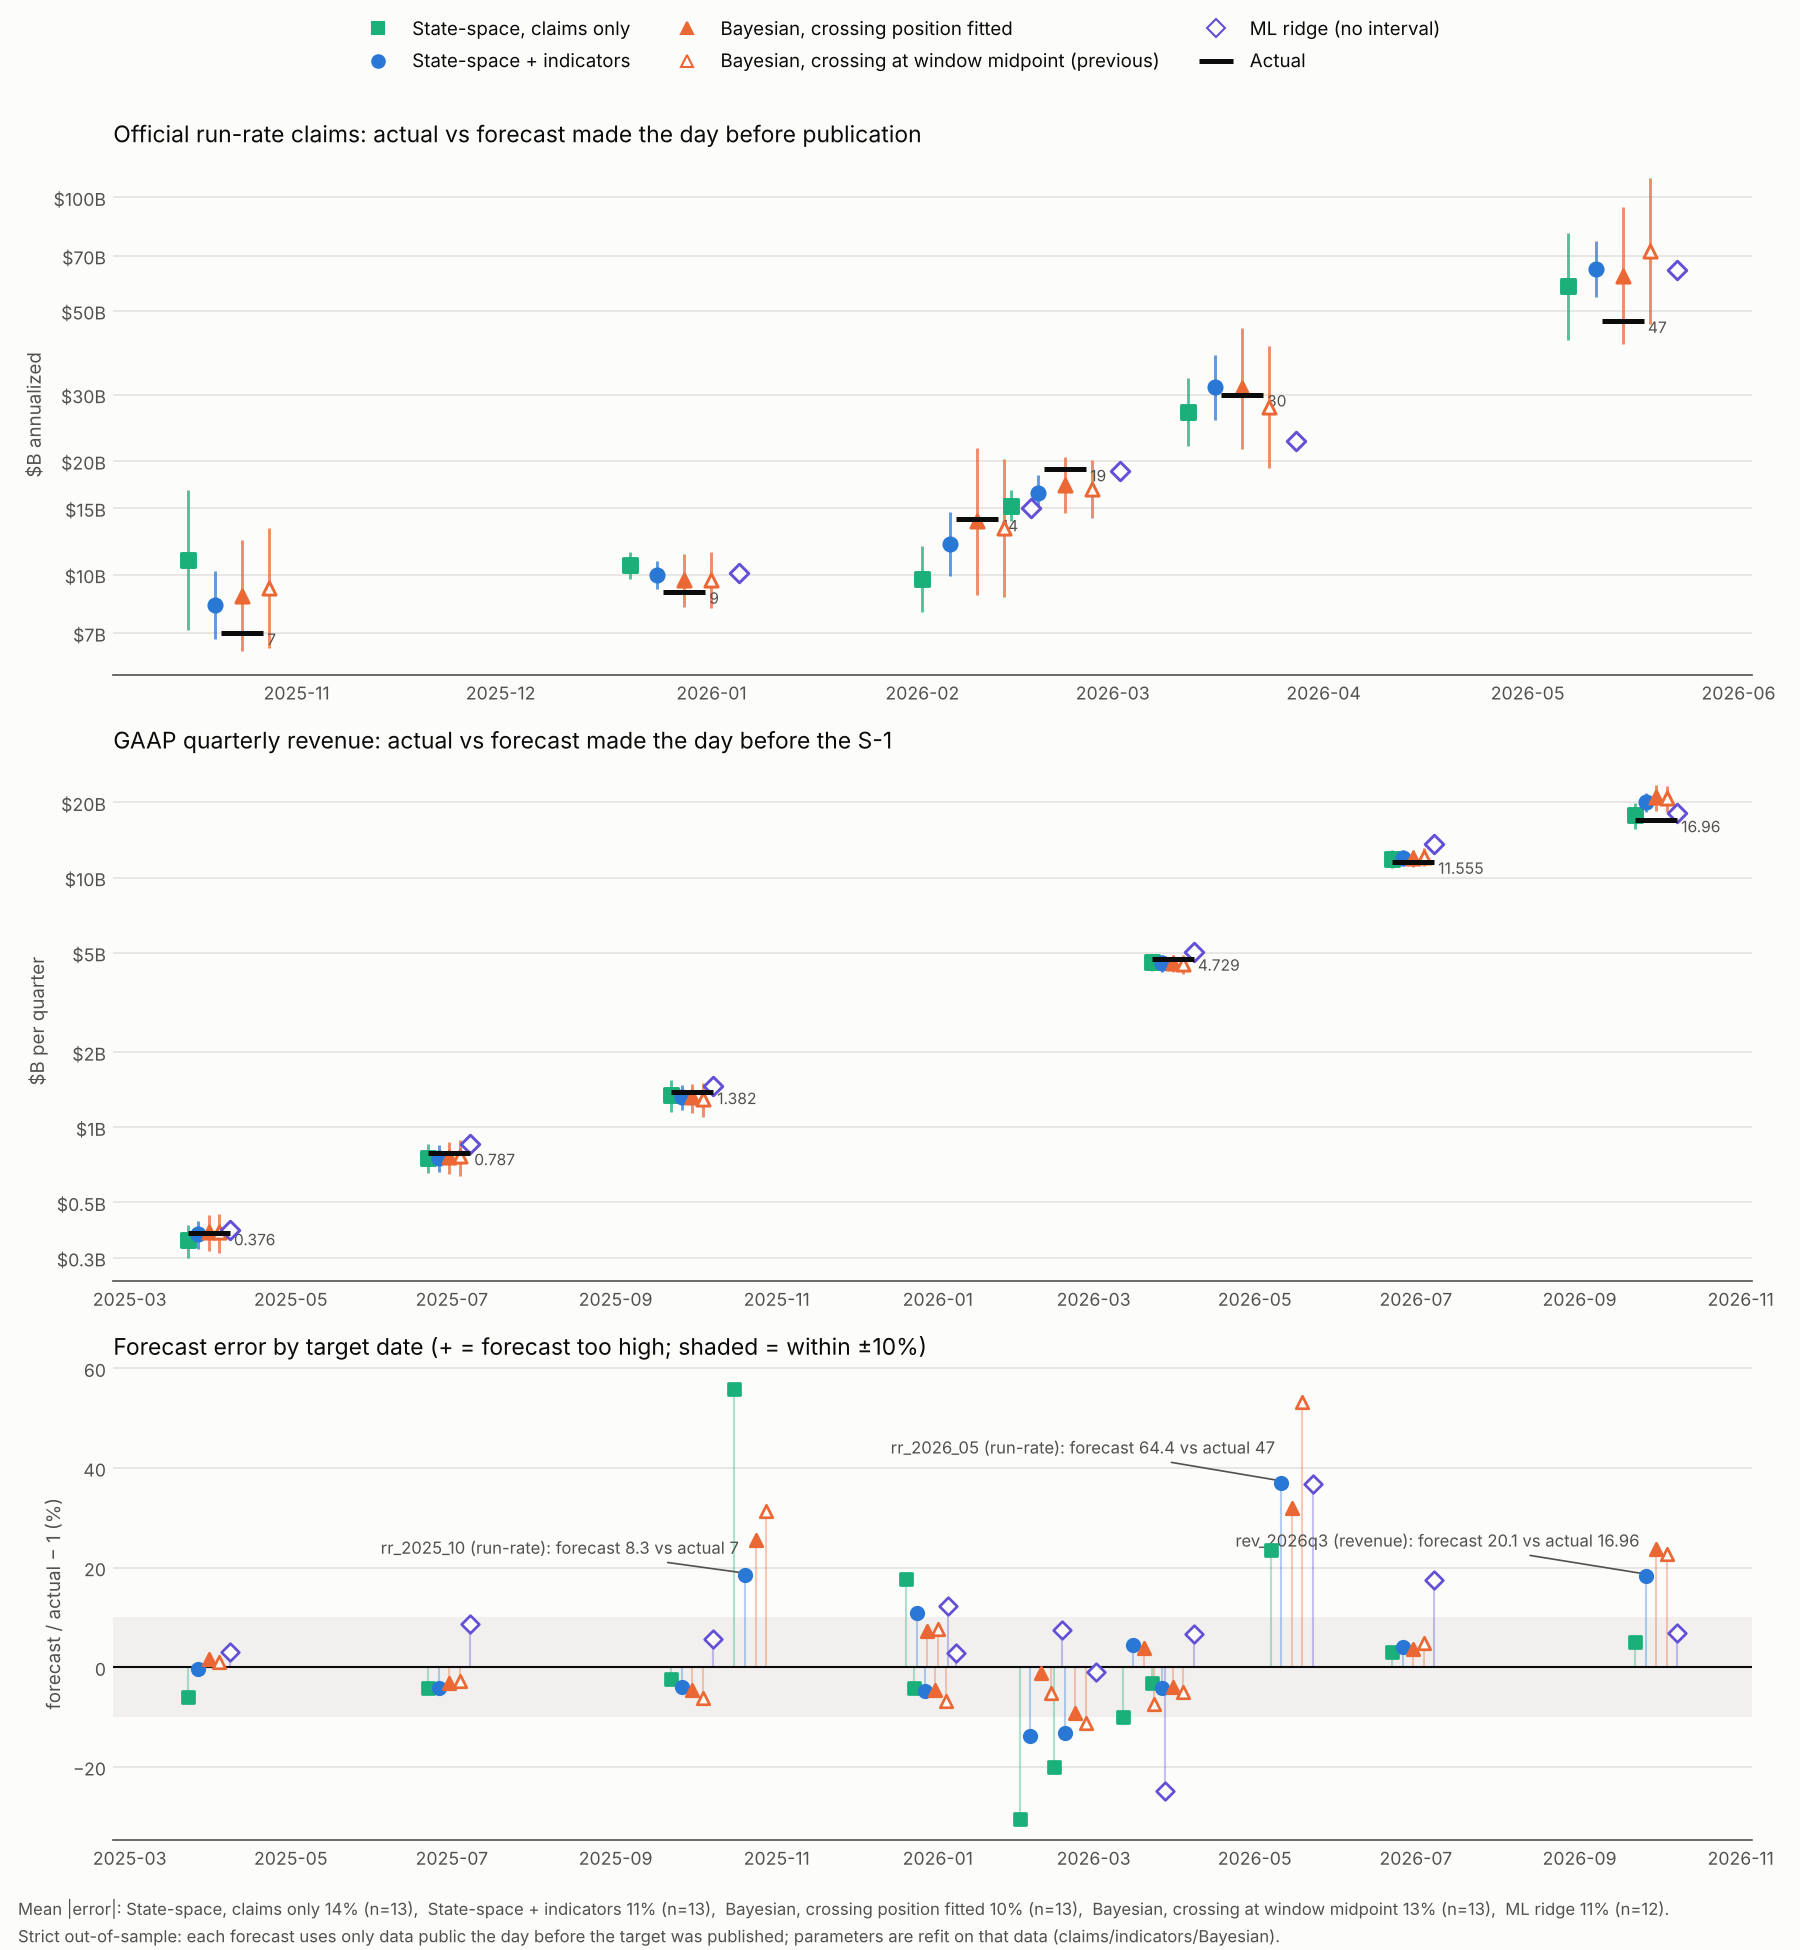
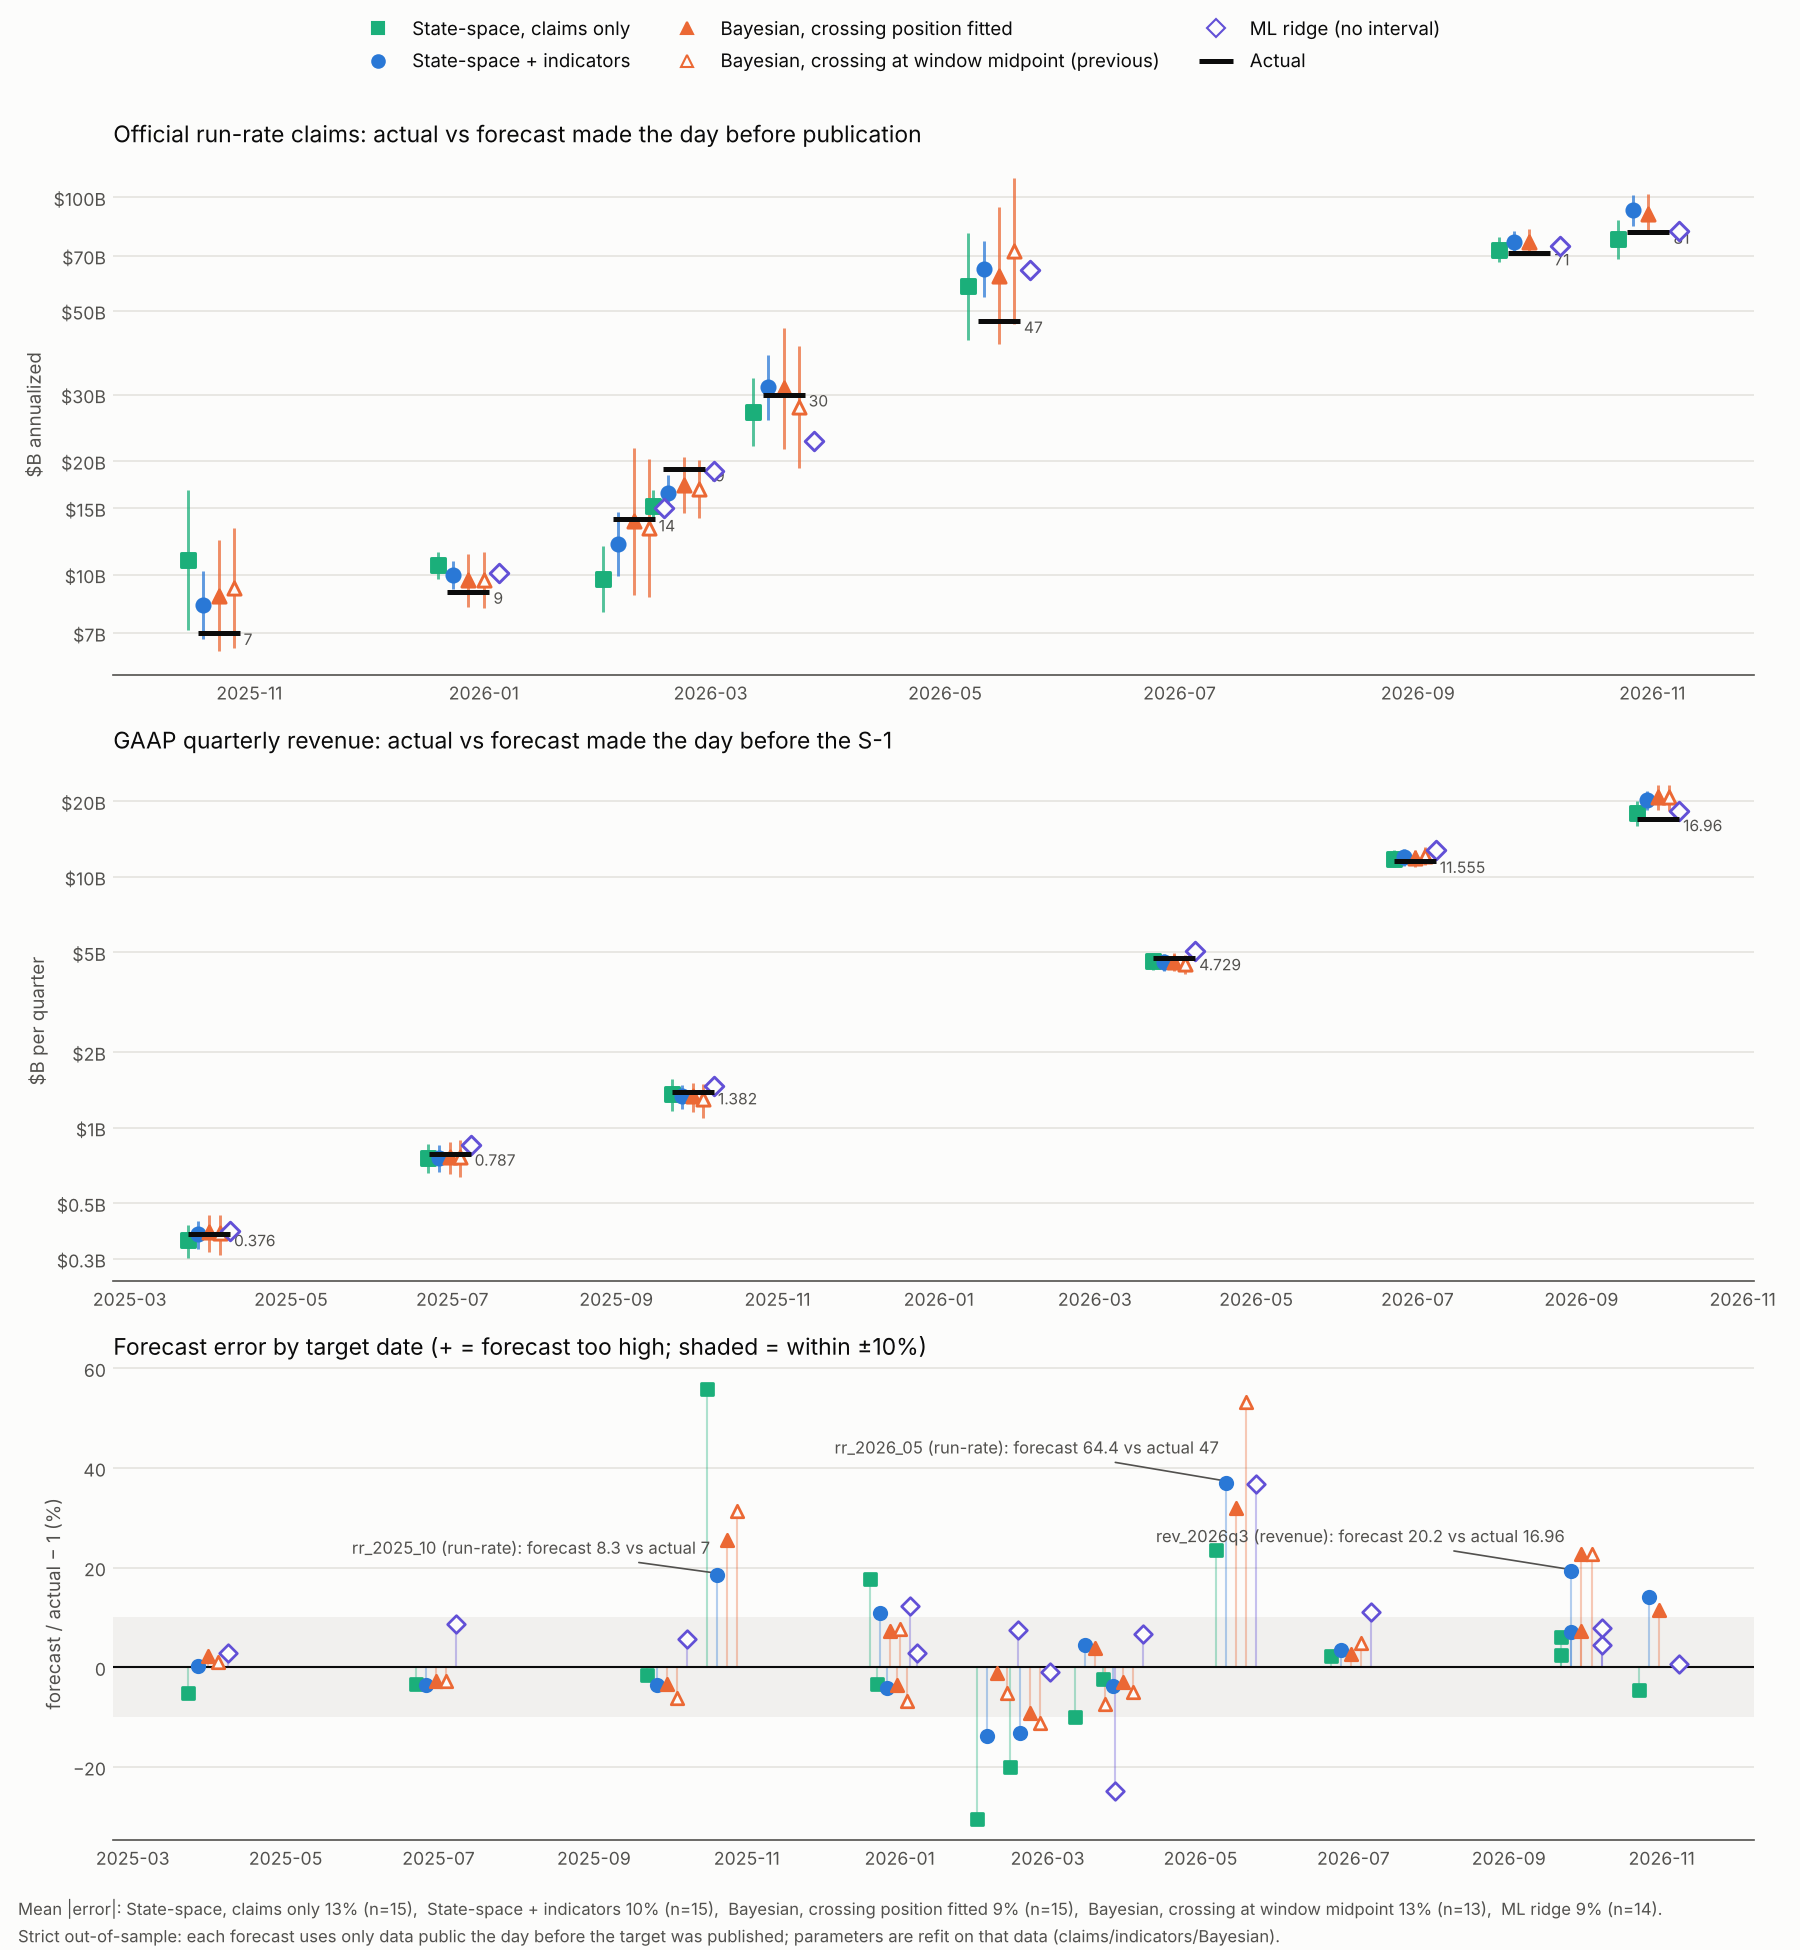
Add official run-rate after June 2026: $81B (Oct 31) and ~$71B (Sep 30) from S-1/A No. 2
Form S-1/A Amendment No. 2 (2026-11-10, accession 0001628280-26-072484): 'our Run-Rate
Revenue was approximately $81 billion as of October 31, 2026, up $10 billion from
September 30, 2026'. Wording verified with SEC full-text search; Sep 30 is derived (81 - 10).
Also adds the Funda/Axios third-party estimate of ~$71B (2026-07-28).

Both new figures are scored in the strict backtests (vintage 2026-11-09):
Oct 31 - claims-only 77.3, +indicators 92.4, Bayesian 90.3, ML ridge 81.5.
The indicator-driven models overshot the last three official targets (Q3, Sep, Oct).

Claude-Session: https://claude.ai/code/session_015VYmrmy85RRK3RPhYBL95Z

diff --git a/runrate_nowcast/plot_backtest.py b/runrate_nowcast/plot_backtest.py
@@ -162,7 +162,7 @@ def plot_errors(d: pd.DataFrame, path: str):
     fig.legend(handles=handles, loc="upper center", ncol=3, frameon=False, fontsize=9, labelcolor=INK,
                bbox_to_anchor=(0.5, 1.0))
     g = d.assign(a=d.pct_err.abs()).groupby("model").a
-    mae, n = g.mean(), g.size()
+    mae, n = g.mean(), g.count()          # count skips targets a model could not forecast
     txt = "Mean |error|: " + ",  ".join(f"{lb.split(' (')[0]} {100 * mae.get(k, np.nan):.0f}% (n={n.get(k, 0)})"
                                         for k, lb, _, _ in MODELS)
     fig.text(0.01, 0.018, txt + ".", fontsize=8, color=INK2)
